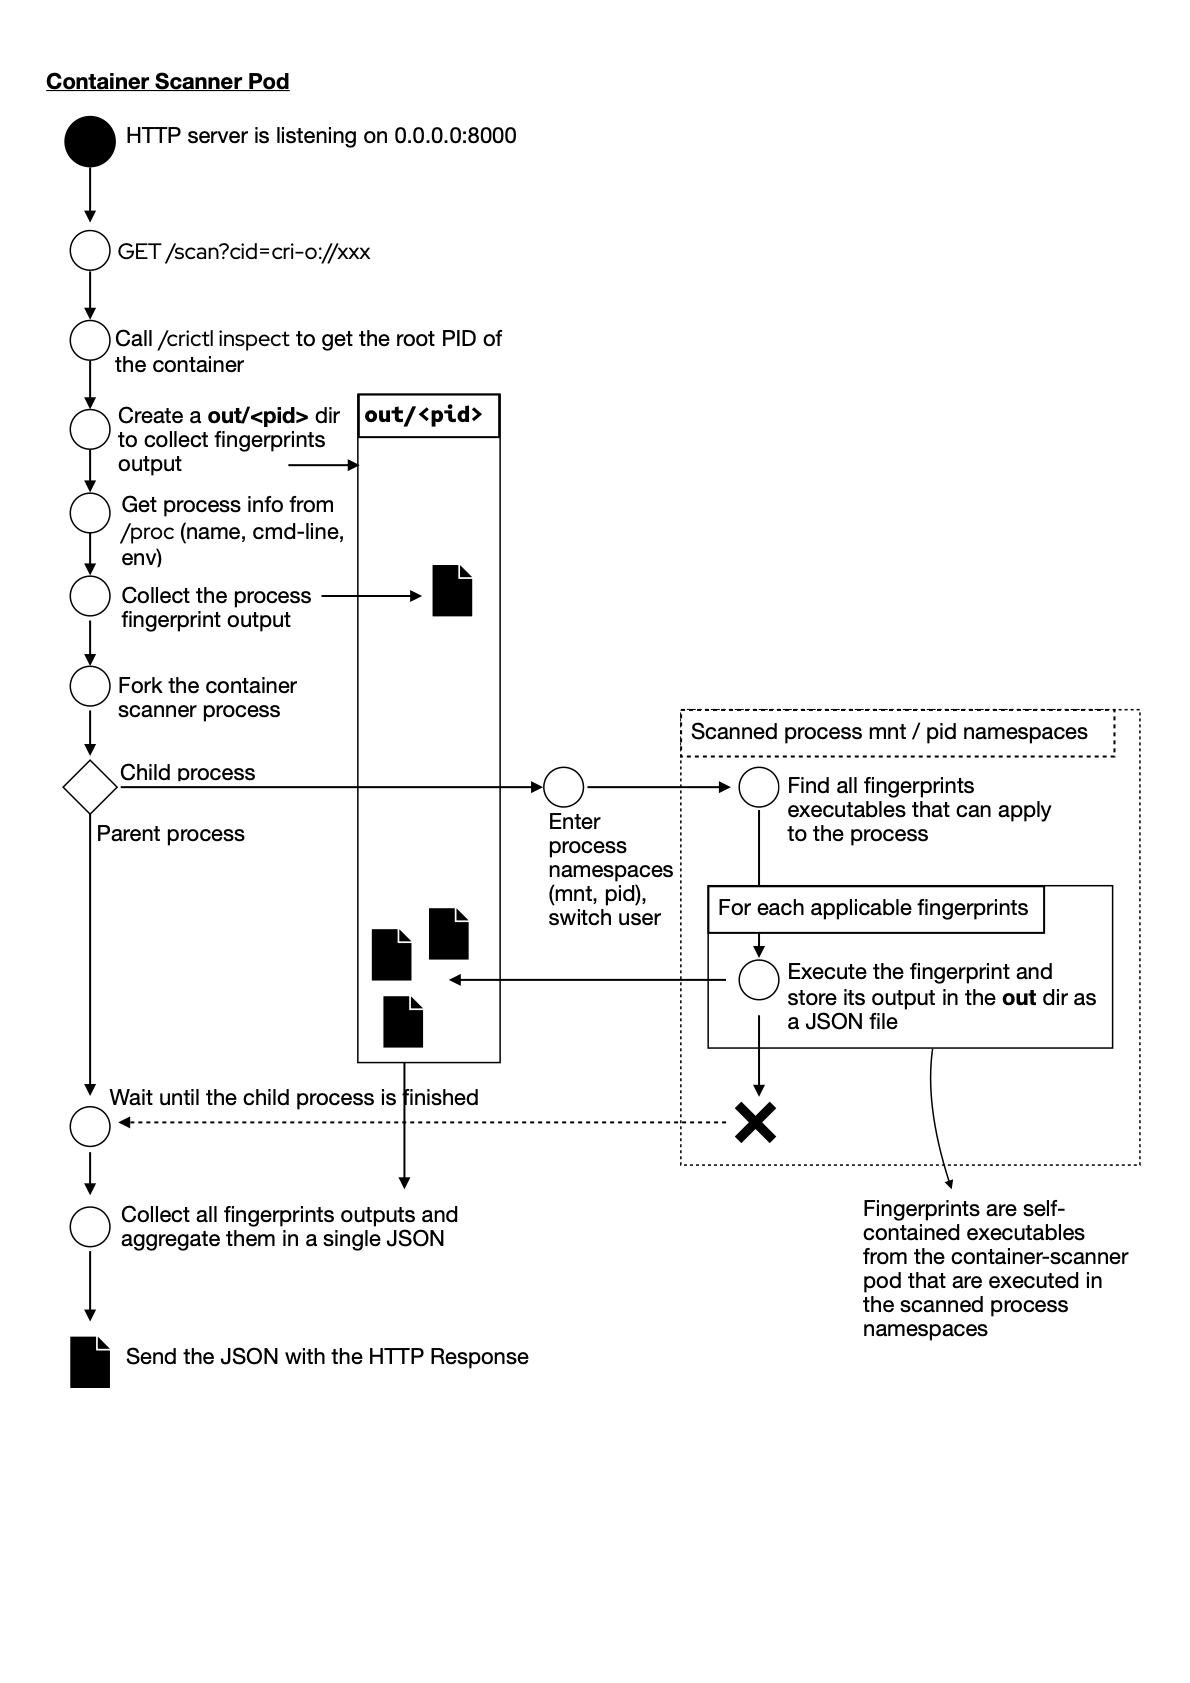
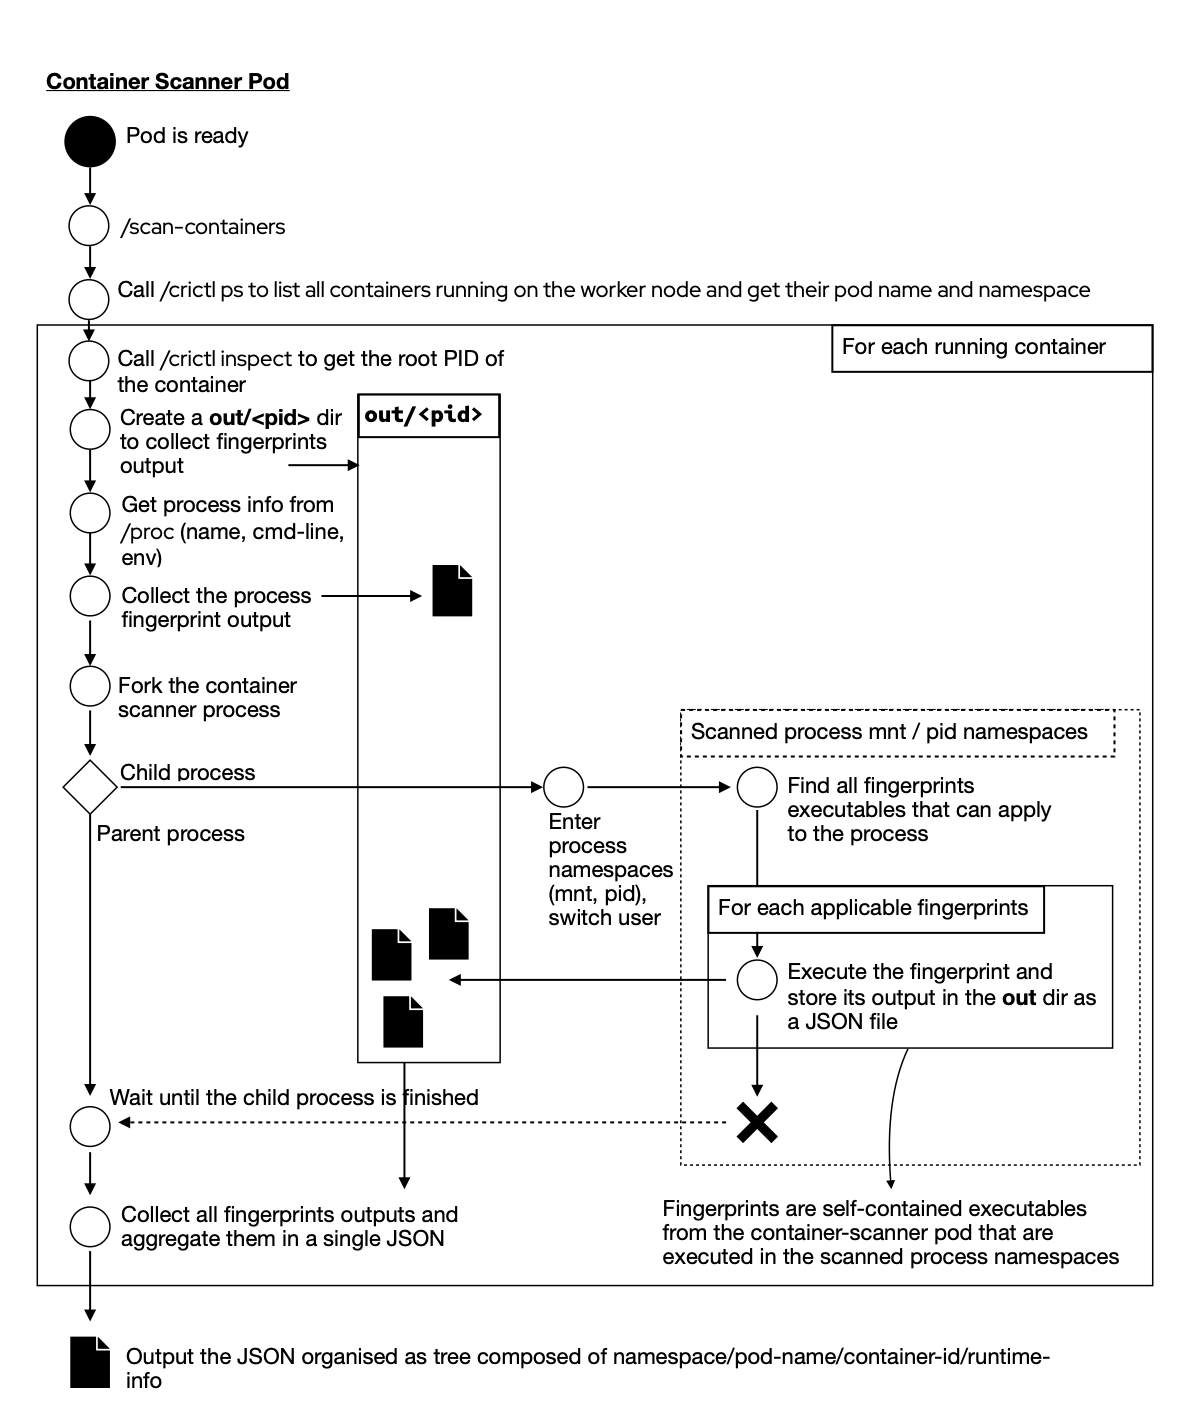
Updated RFE to scan all containers in a single step when the workload gatherer starts.

diff --git a/enhancements/insights/container-scanner.md b/enhancements/insights/container-scanner.md
@@ -196,24 +196,27 @@ As the values are derived by the container scanner or correspond to software ver
 In its existing implementation, the OpenShift Insights Operator periodically gathers workload data every 12 hours.
 
 The Operator iterates over containers in the cluster (up to a limit of 8000) and captures their Image ID and entry points.
-At that point, the operator would use a “container scanner” to extract information from running containers and augment the gathered data for its workload.
+
+When the operator starts gathering workload information, it would first gather runtime information for all the containers running on the cluster's worker nodes and then
+populate the existing gathered info with these additional runtime information.
 
 ![container scannner workflow](./container-scanner-diagram-1.png "Container Scanner Worklow")
 
 This is not a user-facing feature. It is achieved within the OpenShift Insights Operator gathering workflow.
 The user is able to examine the gathered data by unarchiving the archive generated by the operator.
-The DaemonSet for the container scanner is deployed on-demand when the operator gathers workload data and is not accessible outside of the openshift-insights namespace.
+The DaemonSet for the container scanner is deployed on-demand when the operator gathers workload data and is not accessible outside of the `openshift-insights` namespace.
 
 From the operator perspective, the Container Scanner is a black box, and its requirements are:
 
 * Deploy the container scanner `DaemonSet` when gathering workload is starting
-  * The DaemonSet has readiness probes to determine when it is ready to be used. The operator must wait until it is ready and if that takes too long, gather workload without scanning the containers. In that case, an error will be reported by the operator in the archive’s gathers.json file in the `"workloads/workload_info"` section.
+  * The DaemonSet pods are doing nothing when they start. The operator must wait until it is ready and if that takes too long, gather workload without scanning the containers. In that case, an error will be reported by the operator in the archive’s gathers.json file in the `"workloads/workload_info"` section.
   * The container scanner image must be present in the cluster at installation. The existing tolerations of the Insights Operator should be sufficient to cover the container scanner execution..
-* Determine the Pod IP address of each container-scanner’s Pod (as the container scanner is deployed as a DaemonSet, there is a single pod instance on each worker node) and map it to its worker node.
-  * There is no service exposing the Container Scanner and its pods are accessed directly from their Pod IP address 
-* For each running container, the Insights Operator determines which container scanner's Pod is running on the same worker node and sends an HTTP request with the ID of the container to scan. The HTTP response contains a JSON payload that is added to the data gathered by the operator.
-* Undeploy the container scanner when gathering workload data is finished.
+* Determine the Pod name of each container-scanner’s Pod (as the container scanner is deployed as a DaemonSet, there is a single pod instance on each worker node) and map it to its worker node.
+  * There is no service exposing the Container Scanner and its pods are accessed directly.
+* When the operator starts gathering workload information, execute the  `/scan-containers` executable on each container-scanner pod. The executable will output a JSON payload that represents a tree of `namespace/pod-name/container-id/runtime-info`. 
+* Undeploy the container scanner when all containers have been scanned.
   * If the DaemonSet can not be properly undeployed in a timely fashion, an error will be reported by the operator and its resources pruned.
+* As the operator iterates over the containers in the cluster, check if there is a runtime-info entry for the `namespace/pod-name/container-id` and add it to the existing `workloadContainerShape` (after hashing all the values)
 
 The container scanner functionality is provided by an image that must be pullable from the `openshift-insights` namespace and present in the cluster at installation.
 
@@ -244,30 +247,44 @@ when the Insights Operator gathers workload data that will affect the only worke
 
 ### Implementation Details/Notes/Constraints [optional]
 
-#### Container Scanner HTTP API
+#### Container Scanner API
 
-The Insights Operator communicates with the Container Scanner pods deployed by its DaemonSet with a simple HTTP API:
+The Insights Operator communicates with the Container Scanner pods deployed by its DaemonSet with a simple executable `/scan-containers`:
 
-* `GET /scan?cid=cri-o://xx`
-  * Scan the container with the corresponding container ID.
-If the container ID is not found or there is no process corresponding to it, the HTTP server returns a `4xx` status code, otherwise, it returns a JSON payload with the extracted data:
+* `/scan-containers`
+  * Scan the all the containers running on the worker node. The executable returns a JSON payload with the extracted data organized in a tree of `namespace/pod-name/container-id/runtime-info`:
 
 ```json
-        {
-          "os-release-id": "rhel",
-          "os-release-version-id": "8.8",
-          "runtime-kind": "Java",
-          "runtime-kind-version": "17.0.8",
-          "runtime-kind-implementer": "Red Hat, Inc.",
-          "runtime-name": "Quarkus",
-          "runtime-version": "3.4.1"
-          }
+{
+  "my-namespace": {
+    "my-pod-1": {
+      "cri-o://xxxx": {
+        "os-release-id": "rhel",
+        "os-release-version-id": "8.8",
+        "runtime-kind": "Java",
+        "runtime-kind-version": "17.0.8",
+        "runtime-kind-implementer": "Red Hat, Inc.",
+        "runtime-name": "Quarkus",
+        "runtime-version": "3.4.1"
+      },
+      "cri-o://yyyy": {
+        "os-release-id": "rhel",
+        "os-release-version-id": "9.2",
+      }
+    },
+    "my-pod-2": {
+      [...]
+    }
+  },
+  "other-namespace": {
+    "other-pod-1": {
+      "cri-o://zzzz": {
+        [...]
+      }
+    }
+  }
+}
 ```
-
-* `GET /health/live`
-  * Liveness & Startup probes for the container scanner
-* `GET /health/ready`
-  * Readiness probe for the container scanner
 
 #### Container Scanner Implementation
 
@@ -284,19 +301,22 @@ The container scanner image requires high privileges to run (access the worker n
 
 
 #### Container Scanner Constraints
+
 The container scanner is sensitive software that requires high privileges to function.
 It needs to run as privileged and access the host table of Worker Nodes to read their `/proc` tables and run as root to be able to enter in process namespaces.
 
+A specific `SecurityContextConstraints` should be added to the `openshift-insights` to deploy the container scanner with the required permissions.
+
 In order to minimize any security risks, its code will be audited for security and its image will be as minimal as possible.
 
-The container scanner main program is a HTTP server written in Rust.
+The container scanner main program is an executable written in Rust.
 The fingerprint programs are written in Rust (with some written in Go).
 
 This image would contain a set of commands to:
 
-* Start the HTTP server to query in order to scan a container (based on its container ID)
+* Find the running containers and their root PID based with the `crictl` tool
+* Scan running containrers
 * Run “fingerprints”, self-contained executables that run in the container’s process namespaces to identify what the container is running.
-* Find the root PID based on a container ID with the `crictl` tool
 
 Due to the self-contained nature of these commands, the container scanner is built from scratch (and not from an existing base image).
 
@@ -356,11 +376,9 @@ The container scanner is running with its own memory and CPU requirements and do
 The workload data is gathered every 12 hours by the Insights Operator.
 Gathering the runtime data will increase the overall executing time of the workload gatherer. The increase must remain reasonable.
 
-In the existing initial implementation of the container scanner, it takes __~180 ms to scan a single container__ (including the HTTP roundtrip).
+In the existing initial implementation of the container scanner, it takes __~180 ms to scan a single container__.
 
-The current workflow for scanning the containers could be further optimized by performing the scanning after the container shapes have been tested for duplicates and scan only once instead of scanning every duplicated container.
-
-It could also be possible to scan containers in parallel instead of doing it iteratively.
+It could be possible to scan containers in parallel instead of doing it iteratively.
 
 The additional data in the `workloadRuntimeInfoContainer` will increase the size of the insights payload that is archived and sent to Red Hat backends.
 
@@ -401,7 +419,7 @@ How can we configure a _related image_ in the Insights Operator from its `Cluste
 The container scanner can be tested in isolation to verify its capability to scan containers and collect the expected runtime info.
 
 Testing the container scanner can be done outside of the Insights Operator test suite.
-It requires integration tests with applications based on the detectable runtime stacks.
+It requires integration tests with applications based on the detectable runtime stacks. A end-to-end (e2e) test suite can be developed to verify the capabilities of the container scanner.
 
 ### Insights Operator Test Plan
 
